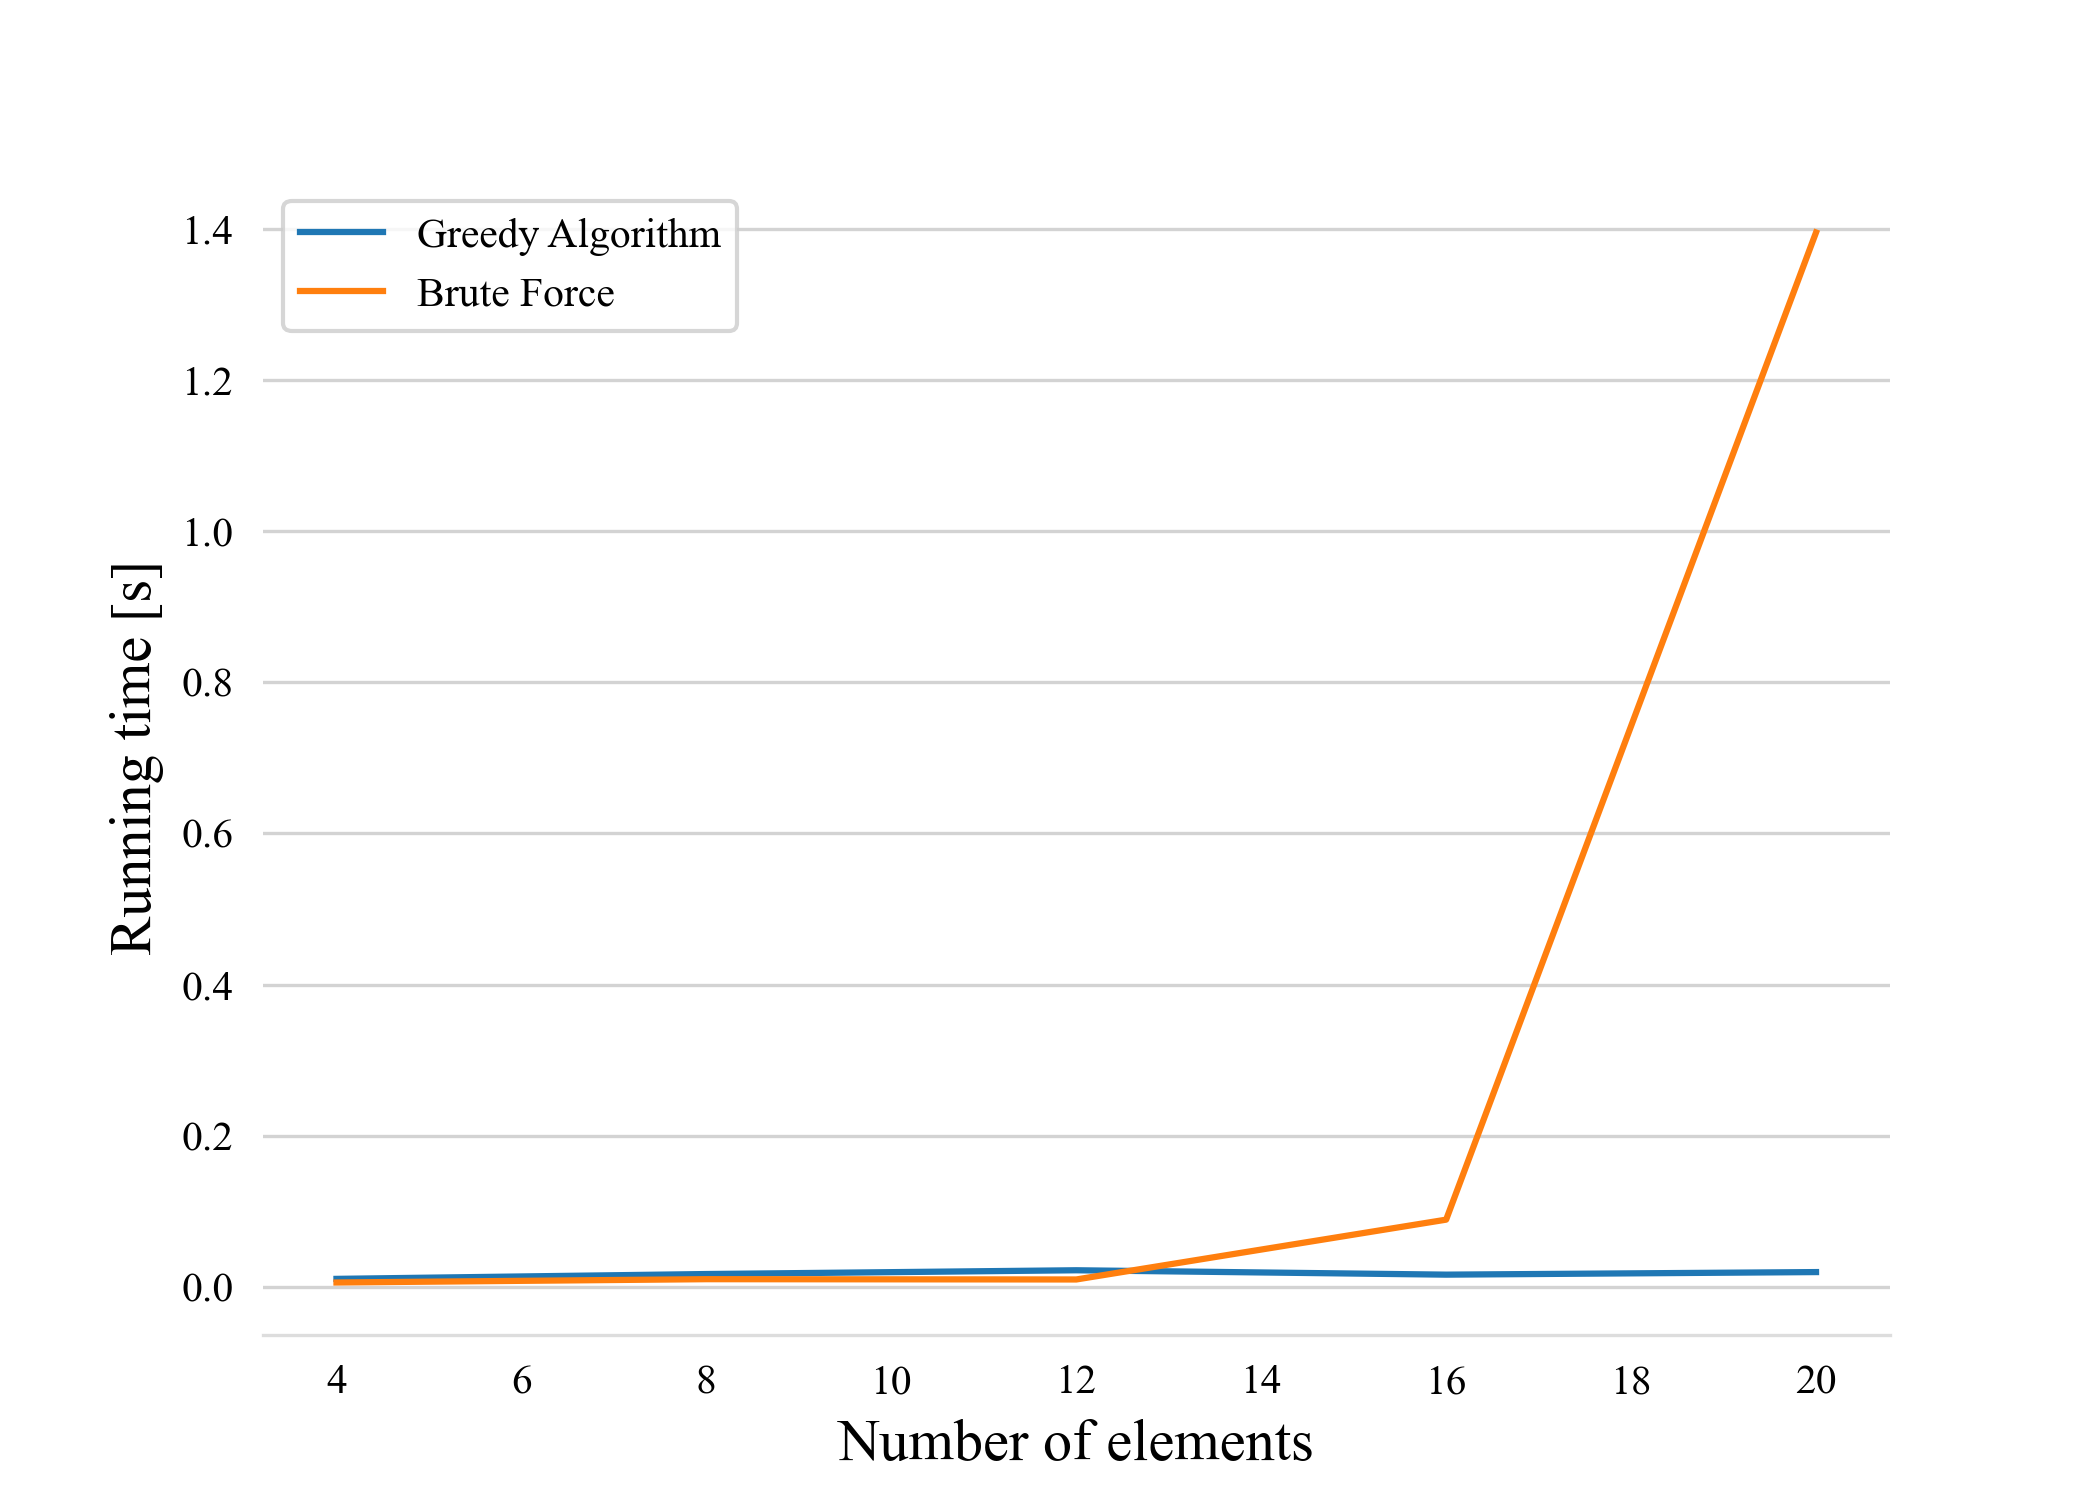
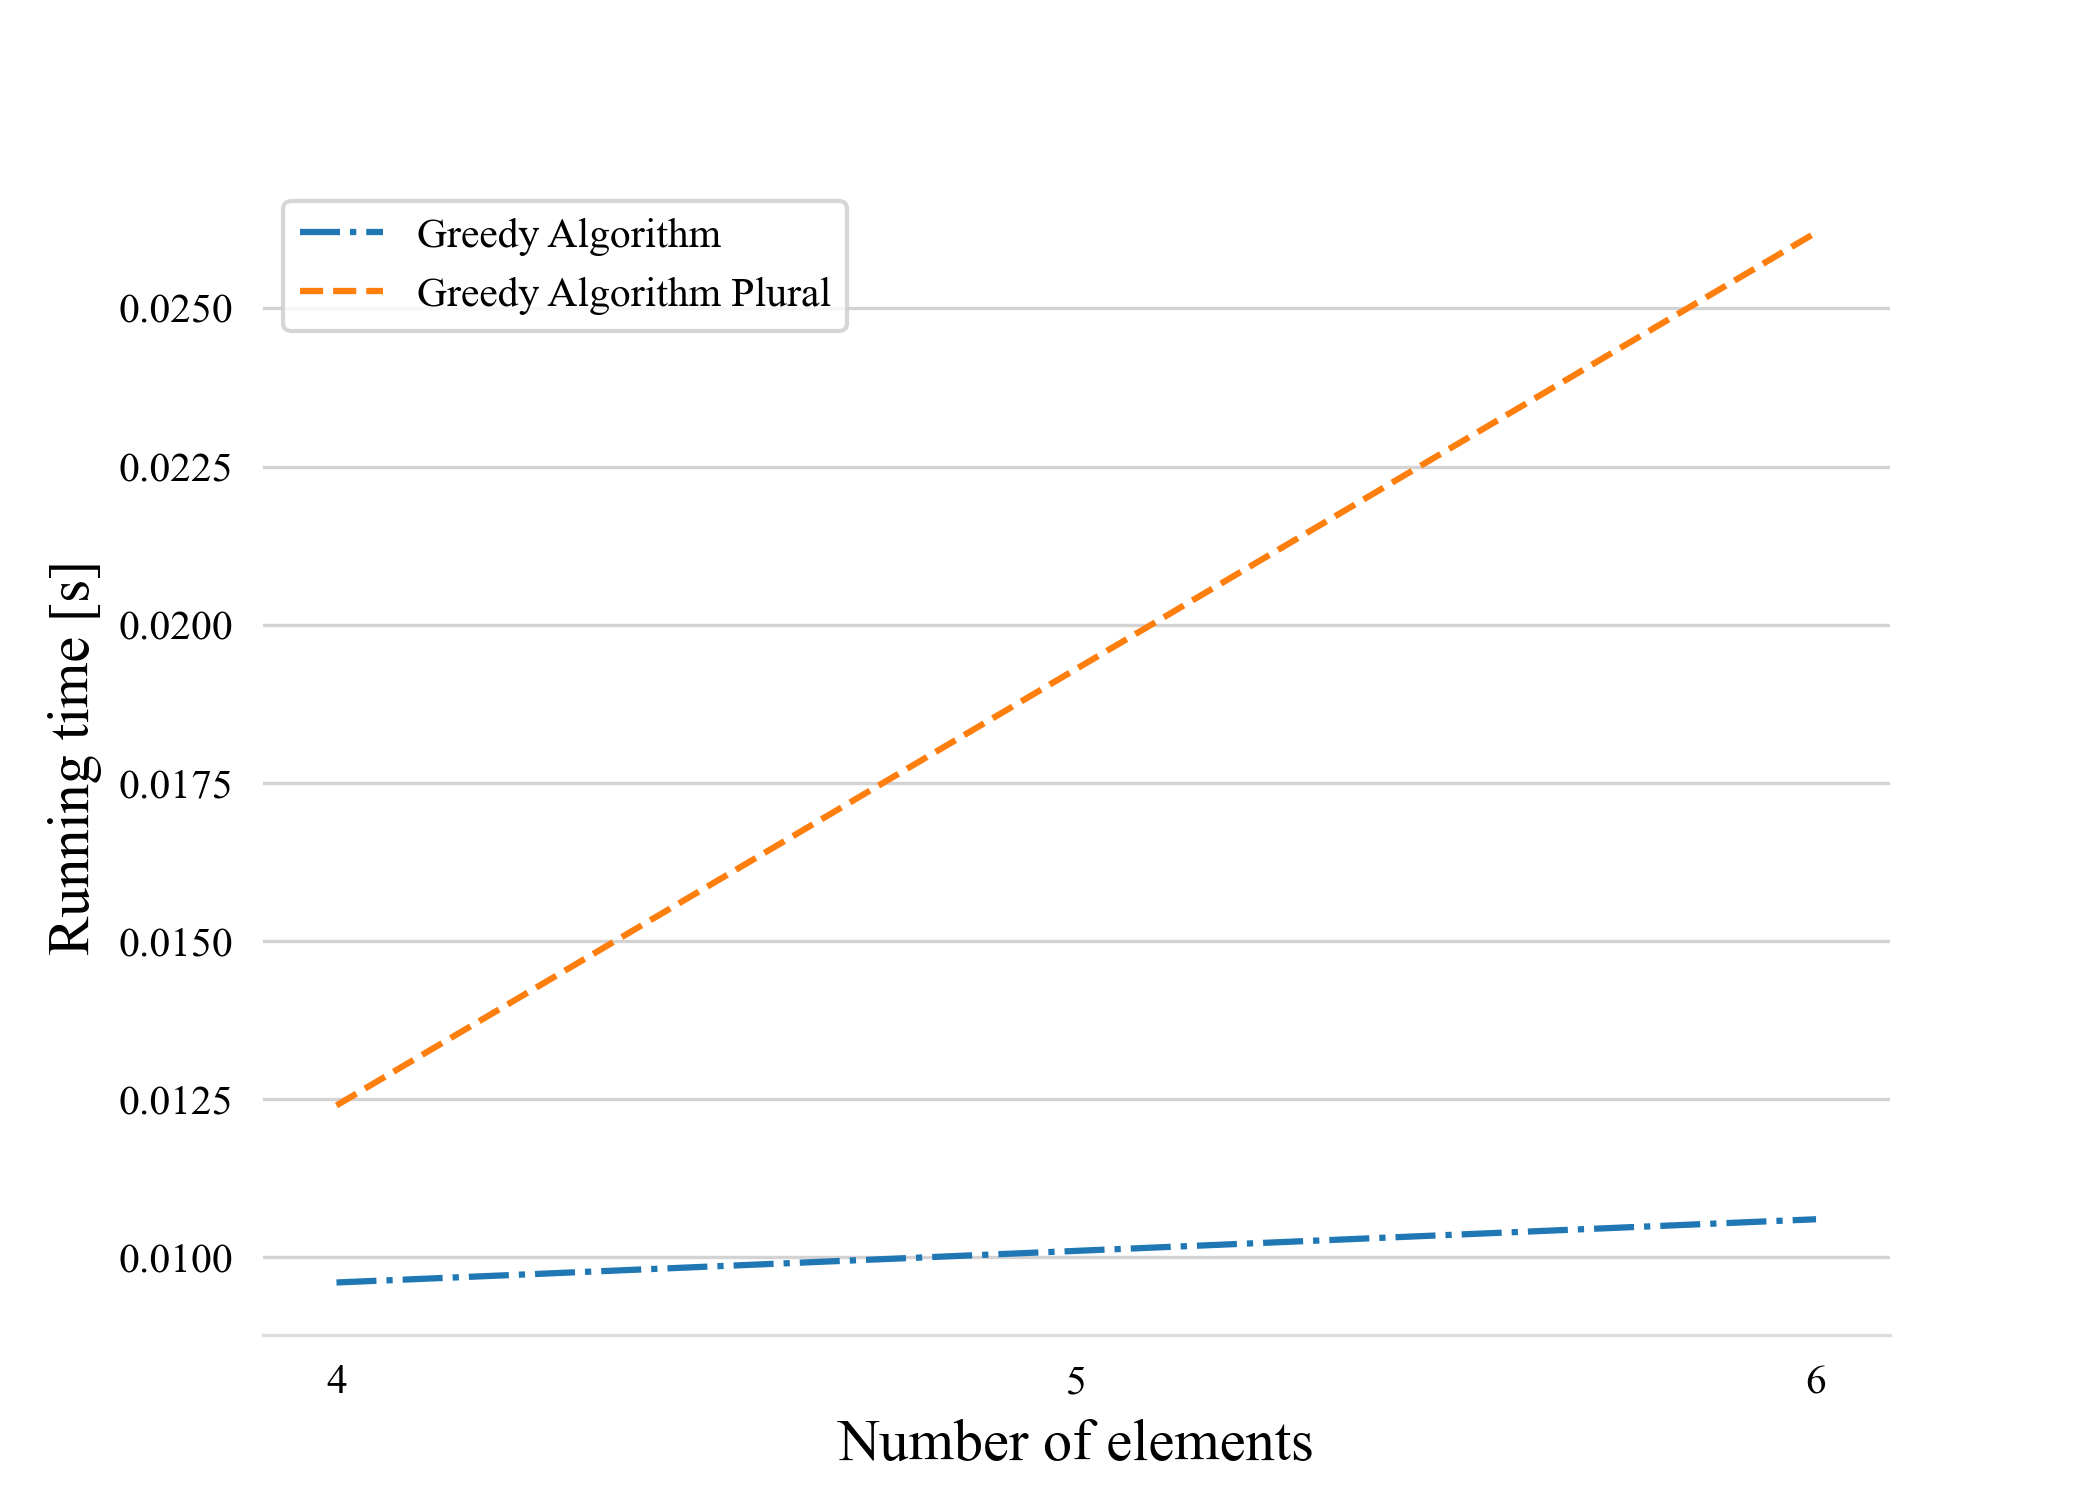
Fixed overlapping problem of graphs

diff --git a/Matching/plotting.py b/Matching/plotting.py
@@ -12,11 +12,44 @@ from selenium import webdriver
 import time
 import os
 
-def plot_algorithm(dict, x_values, xlabel, ylabel, title, save_filename):
+def plot_algorithm(alg_dict, x_values, xlabel, ylabel, fix_overlapping, title, save_filename):
     plt.rcParams["font.family"] = "Times new roman"
     fig, ax = plt.subplots(figsize = (7, 5))
-    for key, items in dict.items():
-        plt.plot(x_values, items, label = key)
+    values = list(alg_dict.values())
+    #Check if the plots are the same:
+    min_value = np.min(values)
+    """
+    for i in range(len(values)):
+        for j in range(i+1, len(values)):
+            value1 = list(np.round(values[i], 3))
+            value2 = list(np.round(values[j], 3))
+            if value1 == value2:
+                new_values = np.array(values[j])
+                new_values += 10#0.1*min_value
+                values[j] = new_values
+    """
+    if fix_overlapping:
+        styles = ["dashdot", "dashed", "dotted"]
+    else:
+        styles = ["solid"]
+    count = 0
+    plotted_items = []
+    for key, items in alg_dict.items():
+        """
+        for item in plotted_items:
+            value1 = list(np.round(item, 4))
+            value2 = list(np.round(items, 4))
+            if value1 == value2:
+                new_values = np.array(items)
+                new_values += min_value*0.1
+                items = list(new_values)
+                print("VALUES CHANGED!!!!!!!!!")
+        """
+        plt.plot(x_values, items, label = key, linestyle = styles[count])
+        count += 1
+        if count == len(styles):
+            count = 0
+        plotted_items.append(list(items))
     plt.legend()
     plt.title(title, fontsize = 16)
     plt.xlabel(xlabel, fontsize=14)

diff --git a/TestCases/study_case_brute.py b/TestCases/study_case_brute.py
@@ -29,7 +29,7 @@ constants = {
     ########################
     "Project name": "Sognsveien 17",
     "Metric": "GWP",
-    "Algorithms": ["brute", "greedy_single"],
+    "Algorithms": ["greedy_plural", "greedy_single"],
     "Include transportation": False,
     "Cite latitude": "59.94161606",
     "Cite longitude": "10.72994518",
@@ -70,7 +70,7 @@ def generate_datasets(d_counts, s_counts):
 
 # ========== SCENARIO 1 ============== 
 var1 = 1
-d_counts = np.linspace(2, 10, num = 5).astype(int)
+d_counts = np.linspace(2, 3, num = 2).astype(int)
 s_counts = (d_counts * var1).astype(int)
 internal_runs = 5
 constraint_dict = constants["constraint_dict"]
@@ -122,5 +122,5 @@ test = 2
 #pairs_df = pd.concat([res['Match object'].pairs for res in results[0]], axis = 1)
 #pairs_df.columns = [res[list(res.keys())[0]] for res in results[0]]
 
-plot.plot_algorithm(time_dict, x_values, xlabel = "Number of elements", ylabel = "Running time [s]", title = "", save_filename="brute_results_time.png")
-plot.plot_algorithm(score_dict, x_values, xlabel = "Number of elements", ylabel = "Score", title = "", save_filename="brute_results_score.png")
+plot.plot_algorithm(time_dict, x_values, xlabel = "Number of elements", ylabel = "Running time [s]", title = "", fix_overlapping = True, save_filename="brute_results_time.png")
+plot.plot_algorithm(score_dict, x_values, xlabel = "Number of elements", ylabel = "Score", title = "", fix_overlapping = False, save_filename="brute_results_score.png")

diff --git a/TestCases/study_case_genetic.py b/TestCases/study_case_genetic.py
@@ -122,5 +122,5 @@ test = 2
 #pairs_df = pd.concat([res['Match object'].pairs for res in results[0]], axis = 1)
 #pairs_df.columns = [res[list(res.keys())[0]] for res in results[0]]
 
-plot.plot_algorithm(time_dict, x_values, xlabel = "Number of elements", ylabel = "Running time [s]", title = "", save_filename="genetic_results_time.png")
-plot.plot_algorithm(score_dict, x_values, xlabel = "Number of elements", ylabel = "Score", title = "", save_filename="genetic_results_score.png")
+plot.plot_algorithm(time_dict, x_values, xlabel = "Number of elements", ylabel = "Running time [s]", title = "", fix_overlapping=False, save_filename="genetic_results_time.png")
+plot.plot_algorithm(score_dict, x_values, xlabel = "Number of elements", ylabel = "Score", title = "", fix_overlapping=False, save_filename="genetic_results_score.png")
